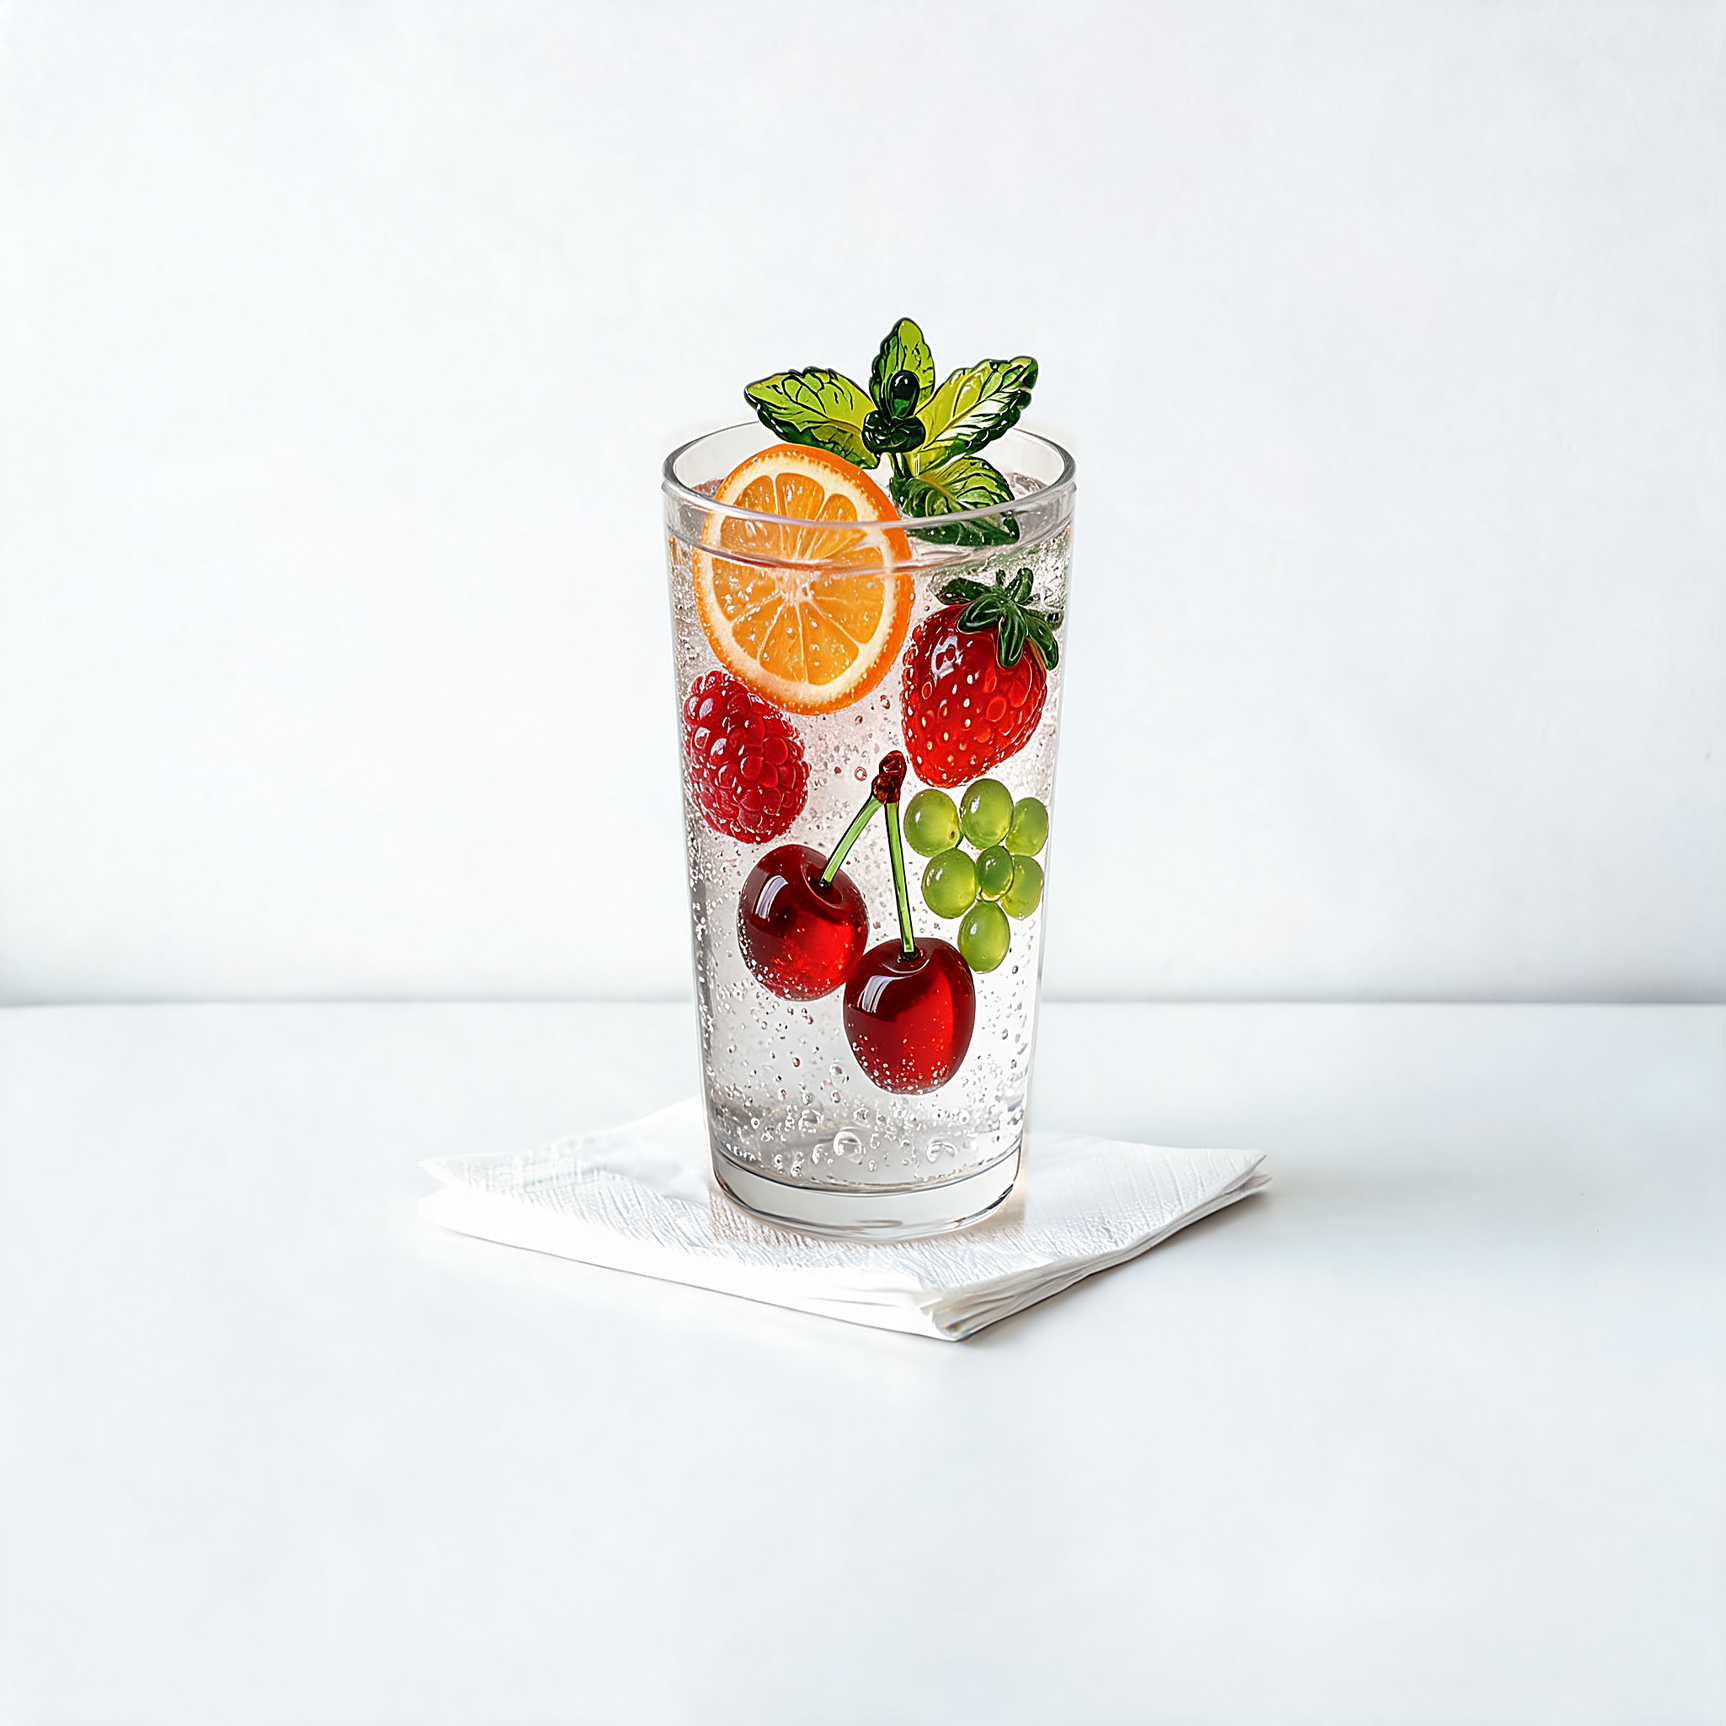
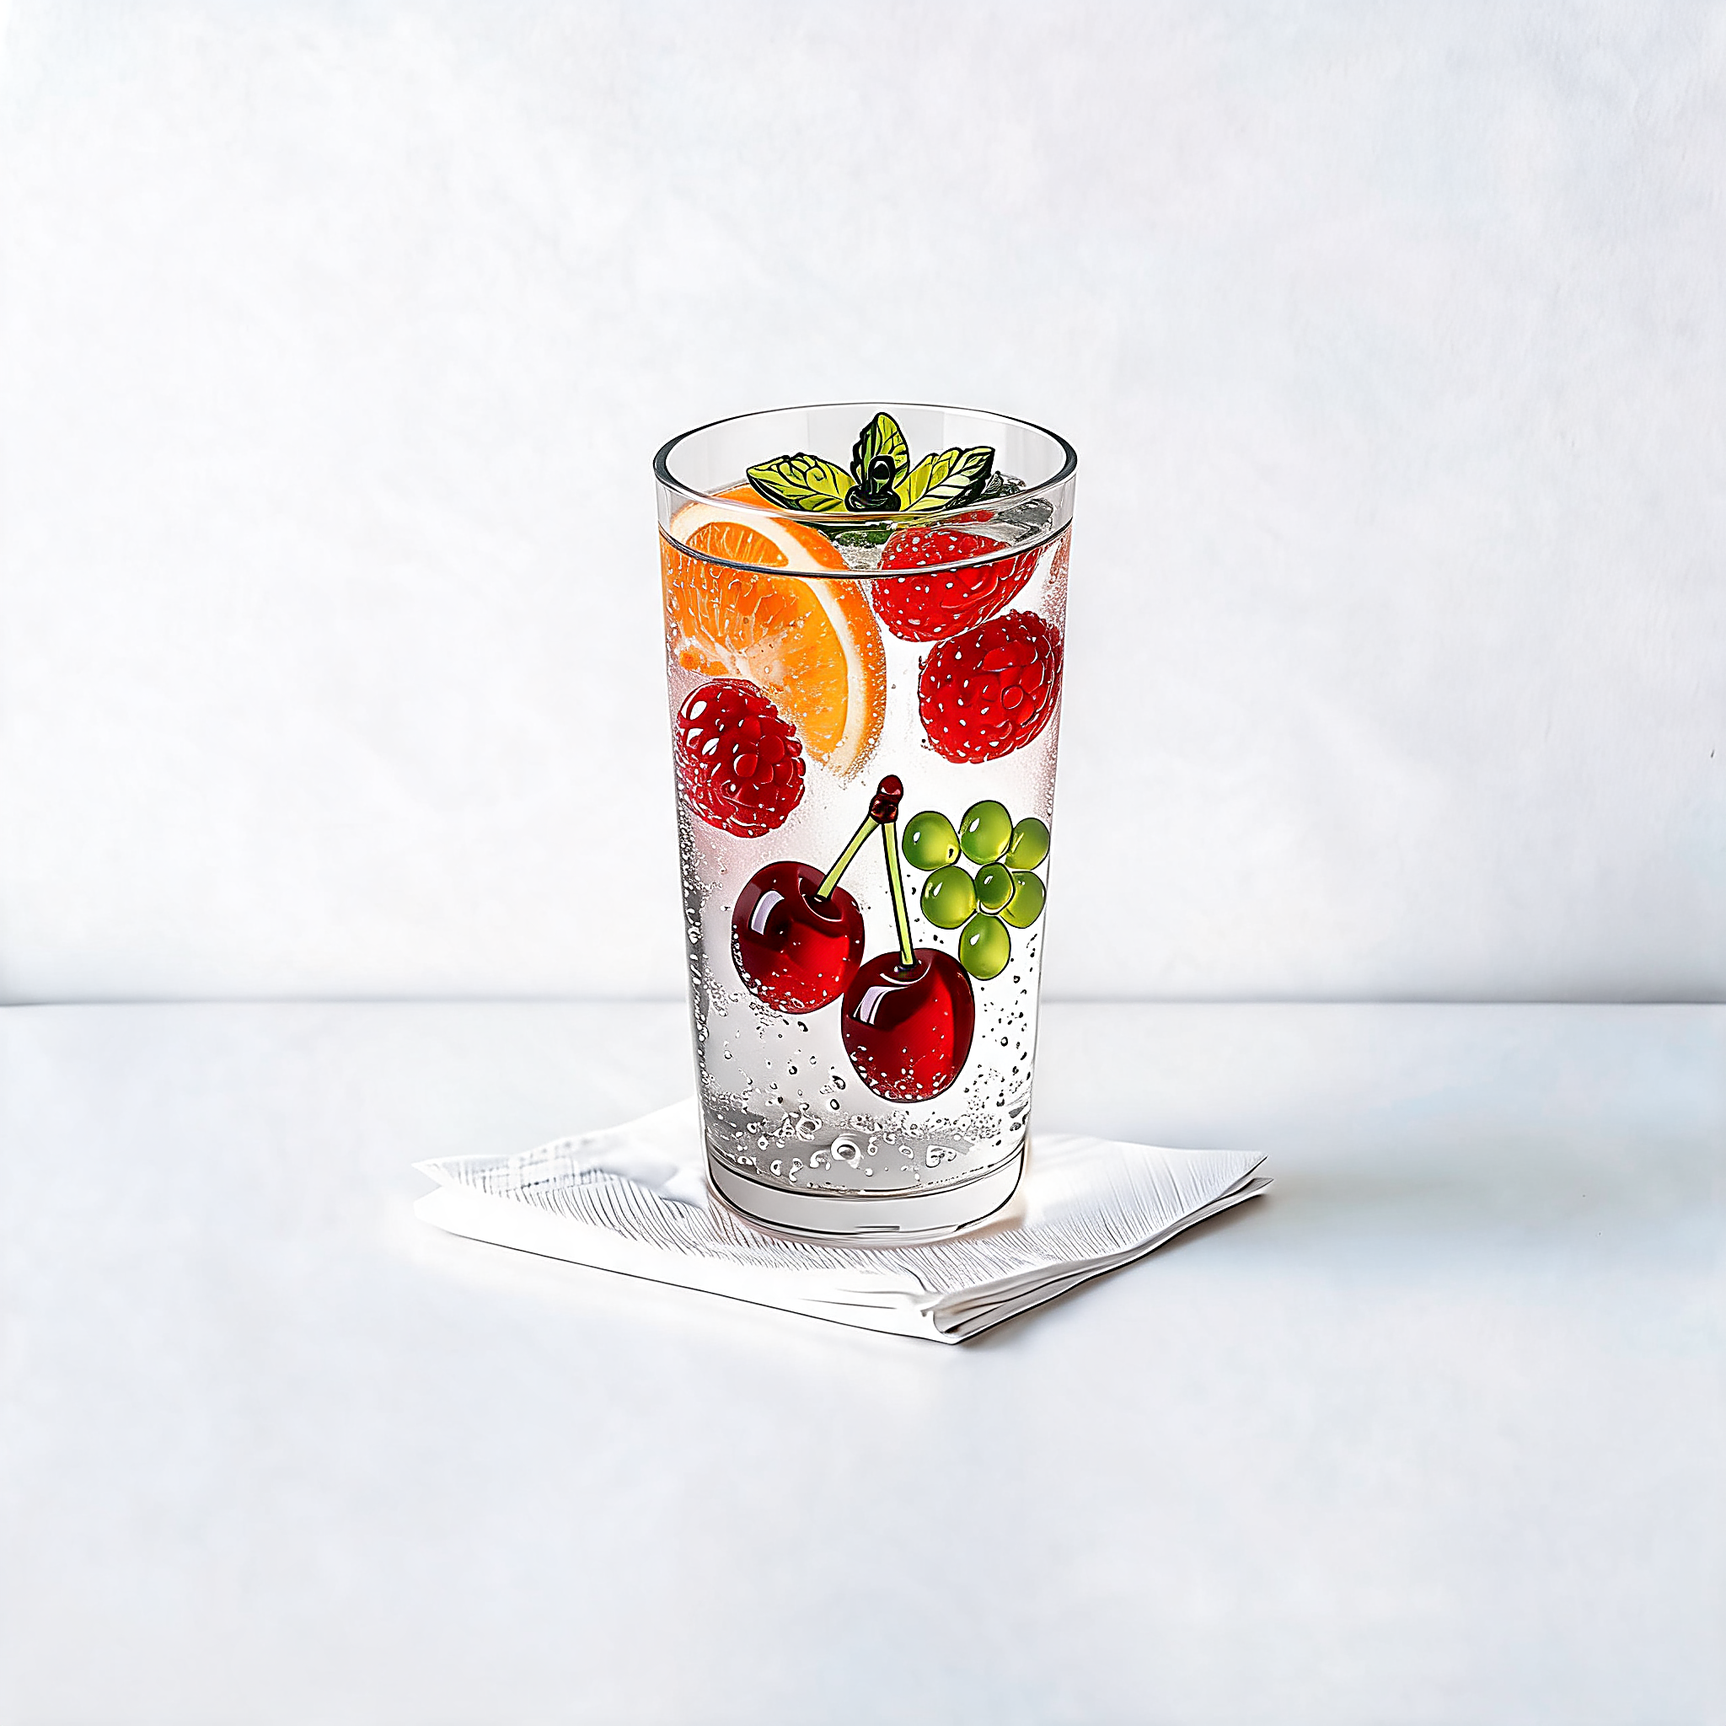
Glass soda 100%: new photo, rimline and topping; drop its idle loop
Regenerated from the 80% photo (Seedream 5.0 lite) so the soda is clear
up to just under the rim instead of the foamy rising-bubble look. Rim
line refitted with align_glass_rim.py, hero topping rebuilt. The idle
loop used the old photo as first/last frame, so the 100% loop is removed.

Beta feedback build 407: AGeFNzSy (100% regeneration; color correction
still pending).

Changed region(s): [[0.3125, 0.1875, 0.75, 0.7812]]

diff --git a/SPEC.md b/SPEC.md
@@ -279,8 +279,8 @@ Entry는 기록 시점 값을 스냅샷한다. 카탈로그 갱신으로 과거 
 - **상품 = 잔 세트.** 상품마다 주인(로슈·카인)과 면이 있고, 주인이 들고 온다(§4.9 물건 규칙과 같다). 초코 프라페는 로슈·당 면, 카페라떼는 카인·카페인 면 전용이다. 상품 목록은 코드 한 곳(`TradeCatalog`)에 두고, 목록 순서가 튜토리얼 순서다(카페라떼, 초코 프라페, 말차 라떼, 망고 스무디, 아인슈페너, 청포도 에이드). 이미 가진 상품은 다시 나오지 않는다.
 - **카페라떼(2026-10-24):** Higgsfield 웹 Unlimited(Seedream 편집)로 아메리카노 단계 사진을 참조로 음료만 라떼로 바꿨다. 잔이 아메리카노 원본과 같은 자리라(ECC 정합 배율 1.005, 어긋남 수 px) 정렬 없이 아메리카노 변환(`transforms.json`, 100%는 "80")으로 자르고, 누끼 알파·유리선·0% 빈 잔·대기 자세 치수(`CupSetGeometry.icedAmericano`)는 아메리카노 것을 그대로 쓴다. 만드는 스크립트 `regen/make_latte.py`, 방울 `drops/cafe-latte.png`. 우유가 불투명해 rembg 누끼로 잔 크기를 재면 6~15% 커 보이는 착시가 나온다. 정합은 가장자리 ECC와 겹쳐 보기로 판단한다. 스크린샷 `latte-*`.
 - **새 음료 4종(2026-10-29):** 카인의 말차 라떼(`matcha`)·아인슈페너(`einspanner`), 로슈의 망고 스무디(`mango`)·청포도 에이드(`grape`). 카페라떼와 같은 방식(Seedream 편집, 아메리카노 단계 사진 참조)이고 같은 스크립트로 자른다(`python regen/make_latte.py <세트>`, 원본 `<세트>/candidates/<단계>_a.png`). 다른 점은 수위다. 아메리카노 원본은 80%가 이미 잔의 약 87%라 100%와 구분이 안 돼서, 수면을 잔 높이 기준으로 고정해 뽑았다: 30% = 1/4, 50% = 절반, 80% = 3/4, 100% = 입구 바로 아래(대표님). 프롬프트에 높이를 숫자로 적는다(리포 CLAUDE.md). 그래서 바닥·가장자리·가운데는 아메리카노 값이고 음료 윗면(`CupSetGeometry.liquid`)만 세트마다 9x16 사진 가운데 열에서 눈으로 쟀다. 자동 측정은 얼음·과일 윗면을 잡아 쓰지 않았다. 아인슈페너는 크림 윗면. 청포도는 얼음이 노랗게 뜬 부분을 후처리로 뺐다. 말차·아인슈페너는 불투명해 카인 헤엄(`swim`·`swim-front`)을 뺀다(`hiddenPoses`). 방울 `drops/<세트>.png`(`drops/cutout.py`로 누끼). 기존 4잔은 그대로 둔다. 스크린샷 `matcha-*`·`einspanner-*`·`mango-*`·`grape-*`·`trade-card-<세트>`.
-- **2026 특전 유리 공예 잔(2026-11-05 대표님, 1단계 = 에셋 등록만):** 로슈의 유리 과일 소다(`glass-soda`, 맑은 탄산수에 유리 체리·라즈베리·청포도·딸기·오렌지·민트)와 카인의 유리 원두(`glass-beans`, 음료 없이 유리 원두만). 거래 상품이 아니라 `TradeCatalog.perks`에 따로 두어 거래 제안·14일 룰렛·튜토리얼에는 안 나오고, 잔 조회(`TradeCatalog.item`, 이름·방울·잔 치수)만 같이 본다. Seedream 5.0 lite(힉스필드 웹 Unlimited)로 아메리카노 빈 잔(0%)을 참조로 뽑은 편집본이라 전 단계를 아메리카노 0% 변환으로 자르고 누끼·유리선도 0% 것을 쓴다. 입구 위로 솟은 민트·오렌지는 입구 위 채도 높은 픽셀을 누끼에 더한다(`regen/make_glass_set.py <세트>`). 30% 사진은 공중에 뜬 민트를 수면까지 내려 합성했다. 음료 윗면은 소다 = 탄산수 수면, 원두 = 원두 더미 윗면(`CupSetGeometry.glassSoda`·`glassBeans`). 원두 잔은 헤엄칠 음료가 없어 카인 헤엄을 뺀다. 오늘 화면 숫자 토핑은 100%만(`make_hero_toppings.py` `SET_STEPS`, 30~80%는 진한 입구 선이 색 단서에 걸려 뺐다). 방울 `drops/glass-soda.png`·`glass-beans.png`. 대기 루프는 소다만(아래 9-10). 스크린샷 `glass-soda-*`·`glass-beans-*`.
-- **얼리버드 선물(2026-11-05 대표님, 2단계):** 2026년(한국 시각)에 앱을 처음 받은 사람은 스탬프판 7칸에서 유리 공예 잔 두 개를 받는다. 당·카페인 중 한쪽만 기록해도 두 잔 다(끈 면 잔은 켜면 바로 쓴다). 판정 = `AppTransaction.originalPurchaseDate`(지웠다 다시 깔아도 그대로)의 한국 시각 연도, 한 번 확인하면 UserDefaults `earlyBird`에 저장(`EarlyBird`). 샌드박스(TestFlight)·Xcode 실행은 그 날짜가 늘 2013-08-01이라 App Store 빌드가 아니면 대상으로 본다. 영수증을 못 읽으면 판정을 미루고 다음에 다시 본다. 7칸은 누구나 마음이고(병뚜껑은 7칸을 뺀 칸에만 놓는다) 대상이면 그 위에 잔 두 행(`set:glass-soda` 로슈, `set:glass-beans` 카인, 칸 번호 7)을 연 채로 더한다(`GiftStore.grantEarlyBird`). 마감 저장 때 판정을 알면 그 자리에서, 모르면 오늘 화면이 판정을 확인한 뒤 넣는다(이미 7칸을 지난 사람도 소급). 두 번 주지 않는다. 칸 이름표 "얼리버드 선물", 받는 순간은 유리 반짝임 무대(`StampCardView`): 7칸 도장이 찍히면 판이 먹색으로 덮이고 두 잔의 먹이기 방울이 떠오른 뒤 방울 모양 안으로 비스듬한 흰 띠가 한 번 지나가고, 이름표·잔 이름·받기가 뜬다(동작 줄이기면 바로 멈춘 자리). 빌드 407 대표님 "좀 더 화려하게"로 뒤에 빛살(흰 쐐기 면)이 돌고, 방울이 차례로 튀어 오르며, 폭죽이 두 번 터지고 흰 띠가 두 번 지나간다. 대상인데 아직 7칸 전이면 7칸 점선 칸에 무지개 물음표(경계가 또렷한 색 띠가 글자 안을 흐르고 살짝 일렁임, 무엇인지 숨긴다)를 둔다. 소급해 받은 사람은 무대를 아직 안 봤으면(UserDefaults `earlyBirdSeen`) 오늘 화면이 판을 열어 무대부터 보여 준다. 받은 잔은 보관함 잔 칸에서 고른다. CI 스크린샷 `stamp-early-*`, `glass-inventory`(Debug `-earlyBird YES|NO`).
+- **2026 특전 유리 공예 잔(2026-11-05 대표님, 1단계 = 에셋 등록만):** 로슈의 유리 과일 소다(`glass-soda`, 맑은 탄산수에 유리 체리·라즈베리·청포도·딸기·오렌지·민트)와 카인의 유리 원두(`glass-beans`, 음료 없이 유리 원두만). 거래 상품이 아니라 `TradeCatalog.perks`에 따로 두어 거래 제안·14일 룰렛·튜토리얼에는 안 나오고, 잔 조회(`TradeCatalog.item`, 이름·방울·잔 치수)만 같이 본다. Seedream 5.0 lite(힉스필드 웹 Unlimited)로 아메리카노 빈 잔(0%)을 참조로 뽑은 편집본이라 전 단계를 아메리카노 0% 변환으로 자르고 누끼·유리선도 0% 것을 쓴다. 입구 위로 솟은 민트·오렌지는 입구 위 채도 높은 픽셀을 누끼에 더한다(`regen/make_glass_set.py <세트>`). 30% 사진은 공중에 뜬 민트를 수면까지 내려 합성했다. 음료 윗면은 소다 = 탄산수 수면, 원두 = 원두 더미 윗면(`CupSetGeometry.glassSoda`·`glassBeans`). 원두 잔은 헤엄칠 음료가 없어 카인 헤엄을 뺀다. 오늘 화면 숫자 토핑은 100%만(`make_hero_toppings.py` `SET_STEPS`, 30~80%는 진한 입구 선이 색 단서에 걸려 뺐다). 방울 `drops/glass-soda.png`·`glass-beans.png`. 유리 선은 아메리카노 0% 복사본이 생성된 잔과 안 맞아 단계마다 그 사진에 다시 맞췄다(`regen/align_glass_rim.py`, 빌드 407). 대기 루프는 소다 30~80%만(아래 9-10). 스크린샷 `glass-soda-*`·`glass-beans-*`.
+- **얼리버드 선물(2026-11-05 대표님, 2단계):** 2026년(한국 시각)에 앱을 처음 받은 사람은 스탬프판 7칸에서 유리 공예 잔 두 개를 받는다. 당·카페인 중 한쪽만 기록해도 두 잔 다(끈 면 잔은 켜면 바로 쓴다). 판정 = `AppTransaction.originalPurchaseDate`(지웠다 다시 깔아도 그대로)의 한국 시각 연도, 한 번 확인하면 UserDefaults `earlyBird`에 저장(`EarlyBird`). 샌드박스(TestFlight)·Xcode 실행은 그 날짜가 늘 2013-08-01이라 App Store 빌드가 아니면 대상으로 본다. 영수증을 못 읽으면 판정을 미루고 다음에 다시 본다. 7칸은 누구나 마음이고(병뚜껑은 7칸을 뺀 칸에만 놓는다) 대상이면 그 위에 잔 두 행(`set:glass-soda` 로슈, `set:glass-beans` 카인, 칸 번호 7)을 연 채로 더한다(`GiftStore.grantEarlyBird`). 마감 저장 때 판정을 알면 그 자리에서, 모르면 오늘 화면이 판정을 확인한 뒤 넣는다(이미 7칸을 지난 사람도 소급). 두 번 주지 않는다. 칸 이름표 "얼리버드 선물", 받는 순간은 유리 반짝임 무대(`StampCardView`): 7칸 도장이 찍히면 판이 먹색으로 덮이고 두 잔의 먹이기 방울이 떠오른 뒤 방울 모양 안으로 비스듬한 흰 띠가 한 번 지나가고, 이름표·잔 이름·받기가 뜬다(동작 줄이기면 바로 멈춘 자리). 빌드 407 대표님 "좀 더 화려하게"로 뒤에 빛살(흰 쐐기 면)이 돌고, 방울이 차례로 튀어 오르며, 폭죽이 두 번 터지고 흰 띠가 두 번 지나간다. 대상인데 아직 7칸 전이면 7칸 점선 칸에 무지개 물음표(경계가 또렷한 색 띠가 글자 안을 흐르고 살짝 일렁임, 무엇인지 숨긴다)를 둔다. 소급해 받은 사람은 무대를 아직 안 봤으면(UserDefaults `earlyBirdSeen`) 오늘 화면이 판을 열어 무대부터 보여 준다. 받은 잔은 보관함 잔 칸에서 고른다. CI 스크린샷 `stamp-early-*`, `glass-inventory`(Debug `-earlyBird YES|NO`). Debug는 영수증을 읽지 않는다(시뮬레이터가 Apple 계정 로그인 창을 띄워 스크린샷을 덮었다, 2026-11-06). 인자가 없으면 판정을 모르는 채로 둔다.
 - **제안이 오는 조건(전부 만족):** 병뚜껑 잔액이 그 상품 가격 이상이다. 아직 없는 상품이 있다. 다음 제안 시각이 지났다. 그 면에 안 연 선물 상자와 단계 상승 무대가 없다(선물이 먼저 온다). 오늘 화면이 다른 연출·시트 없이 자리 잡았다.
 - **고르는 법:** 첫 제안(거래 행이 하나도 없을 때)은 무작위가 아니라 기록하는 면 중 목록 앞 상품(`TradeCatalog.tutorialItem`, 보통 카인의 카페라떼)이다. 그 면에 안 연 선물이 있으면 다른 상품으로 바꾸지 않고 기다린다. 그 뒤로는 살 수 있는 상품 중 무작위로 하나를 고르고, 직전에 거절한 상품은 다른 상품이 있으면 뺀다.
 - **첫 거래는 거절할 수 없다(2026-10-31 대표님):** 바꾼 거래가 하나도 없으면 무대에 "다음에"가 없고 "바꾸기"만 있다. 그래서 첫 거래가 곧 튜토리얼 라떼이고, 바꾸면 체험 권유 페이월이 한 번 뜬다(§6). Debug `-screenshotTradeRepeat YES` = 바꾼 적이 있는 것처럼("다음에" 보임).
@@ -375,7 +375,7 @@ Entry는 기록 시점 값을 스냅샷한다. 카탈로그 갱신으로 과거 
    - **대기 루프 본편(2026-09-28):** 5단계에 맞춰 30·50·80·100 × 두 세트 8개를 768p(개당 12.5 크레딧)로 뽑아 켰다. 0%는 빈 잔이라 없다. 움직이는 높이가 단계마다 달라 패치 아래 경계를 `--bottom`으로 준다: 딸기 라떼 전 단계·아메리카노 30은 잔 전체(1800), 아메리카노 50 = 1250, 80 = 1100, 100 = 1000. 원본 영상은 `cups/<세트>/idle/<단계>_minimax768_raw.mp4`.
    - **카페라떼 대기 루프(2026-10-27 대표님):** 같은 방식으로 30·50·80·100 4개(Higgsfield MCP `minimax_h3_max` 768p 5초, 시작·끝 = 단계 사진). 커피 무늬가 잔 바닥 가까이까지 같이 움직여 전 단계 잔 전체(`--bottom 1800`). 초코 프라페는 얼음이 안 보여 루프를 만들지 않는다(대표님). 패치 스크립트는 리포 `.venv`에 `cv2`가 없어 시스템 파이썬으로 돌렸다.
    - **새 음료 대기 루프(2026-10-29 대표님):** 말차·아인슈페너·청포도 30·50·80·100 12개, 카페라떼와 같은 설정(`minimax_h3_max` 768p 5초, 시작·끝 = 단계 사진, `--bottom 1800`). 청포도는 탄산 거품과 함께 포도알도 움직이게 했다(대표님). 망고 스무디는 루프를 만들지 않는다(대표님).
-   - **유리 과일 소다 대기 루프(2026-11-05 대표님 "당음료는 애니메이팅"):** 30·50·80·100 4개, 같은 설정(`minimax_h3_max` 768p 5초, 시작·끝 = 단계 사진, `--bottom 1800`). 탄산 거품과 유리 과일이 떠다닌다. 유리 원두는 루프를 만들지 않는다(대표님).
+   - **유리 과일 소다 대기 루프(2026-11-05 대표님 "당음료는 애니메이팅"):** 30·50·80·100 4개, 같은 설정(`minimax_h3_max` 768p 5초, 시작·끝 = 단계 사진, `--bottom 1800`). 탄산 거품과 유리 과일이 떠다닌다. 유리 원두는 루프를 만들지 않는다(대표님). 100%는 2026-11-06 빌드 407 대표님 "탄산이 올라오는 이상한 모양새"로 사진을 다시 뽑으며(80% 원본 참조, Seedream 5.0 lite) 루프를 뺐다. 움직일 때 숫자와 유리 선이 어긋나던 것도 같이 없어진다.
    - **물방울 대기 모션(2026-11-03 대표님 "망고스무디·초코프라페는 안 움직이니 음료 회전 대신 겉에 물방울 맺혀 떨어지는 걸로"):** 대기 영상이 없는 단계(0% 제외)는 단계 사진 위에 물방울 층(`condense-<세트>-<단계>`)을 얹고 12초에 걸쳐 투명도를 0에서 1로 올려 물방울이 맺히게 한다(`CupCondensation`, `CupIdleOverlay`가 영상 없을 때 대신 붙임. 대표님 "물방울 없는 사진에 있는 사진을 얹어놓고 서서히 보이게"). 한 번 맺히면 그대로 두고 화면이 다시 뜰 때 처음부터. 층은 Seedream 5.0 lite(힉스필드 웹 Unlimited)로 단계 사진에 물방울만 더한 편집본을 `design/assets/cups/make_condense.py`가 원본에 맞춘 것(위치 정렬·색 되돌림, 토핑 위는 비움)이다. 코드로 그린 방울(v1·v2)과 영상 모델(minimax 2회)로 흘러내리게 한 시도는 버렸다(각각 "퀄리티 낮음", 스무디가 잔 밖으로 넘쳐 흐르는 것처럼 나옴). 층이 없는 단계는 아무것도 안 그린다. 2026-11-03 현재 망고·초코 프라페 30·50·80·100%가 있다(낮은 단계는 망고 조각 아래 수면부터, 프라페는 잔 안 크림 윗면부터 맺힌다. 프라페 100%는 크림이 입구 위로 솟아 앞 입구 바로 아래부터).
    - 남은 것: 100% 재생성(현재 100%만 컵이 약 9% 커서 나머지를 1.09배 키워 맞춘 상태. 80% 이미지를 참조로 "가득 채우기" 편집 권장), 번들 해상도.
 
